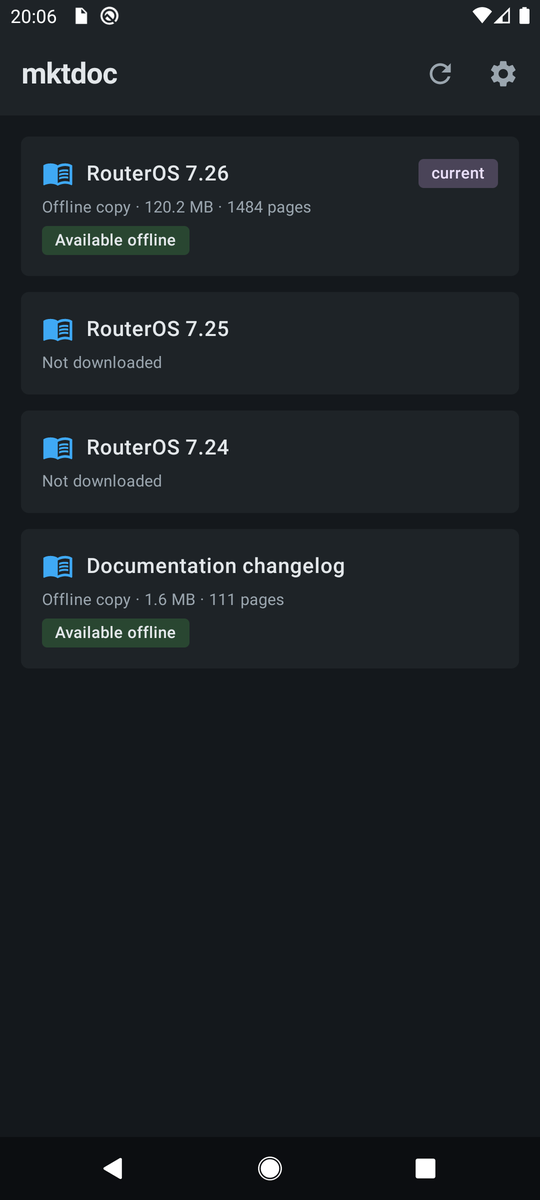
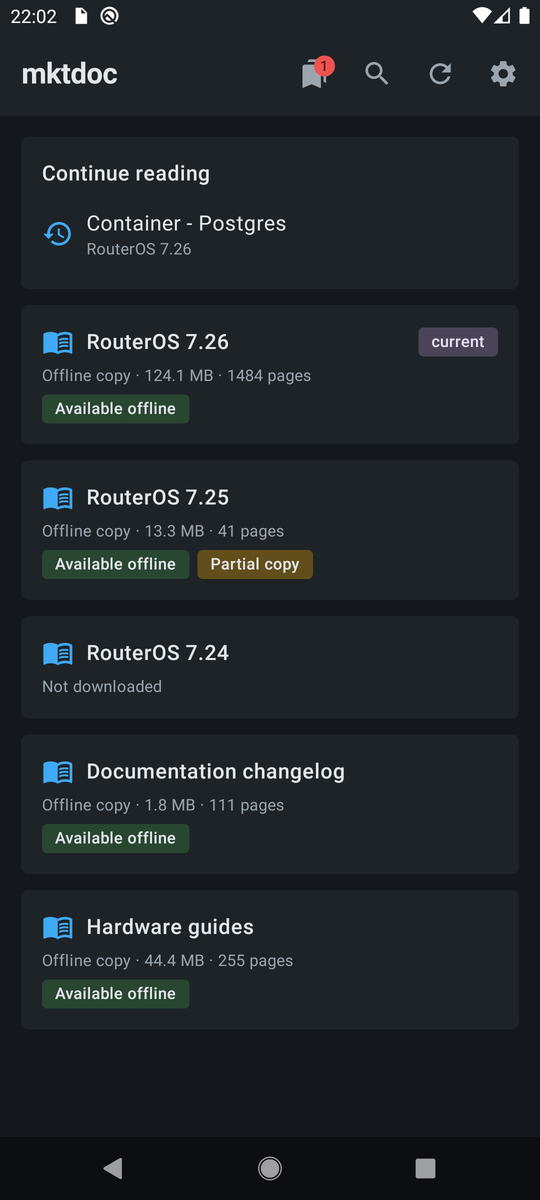
Update the README and screenshots for the current features; release 1.1.2

diff --git a/README.md b/README.md
@@ -21,6 +21,7 @@ online, and can export the documentation to a ZIP or a PDF.
   - [Discovery](#discovery-of-versions-and-structure) · [Download](#download-pipeline) · [Offline site](#offline-html-site)
   - [Checking for changes](#checking-for-changes-and-updating) · [Retired versions](#retired-versions)
   - [Changelog](#the-documentation-changelog) · [ZIP export](#zip-export) · [PDF export](#pdf-export)
+  - [Hardware guides](#the-hardware-guides) · [Background work](#background-work-and-alerts) · [App updates](#app-updates)
   - [Long operations](#long-operations-and-notifications) · [UI, state and theming](#ui-state-and-theming)
 - [Build and test](#build-and-test)
 - [Design notes and limitations](#design-notes-and-limitations)
@@ -94,9 +95,22 @@ progress dialog (it can be hidden or cancelled).
 
 ### Reading offline
 
-| Index and search | Page | Font size |
+| Index and search | Page | Options menu |
 |---|---|---|
-| <img src="docs/screenshots/reader_search.png" width="230"> | <img src="docs/screenshots/reader_page.png" width="230"> | <img src="docs/screenshots/reader_font.png" width="230"> |
+| <img src="docs/screenshots/reader_search.png" width="230"> | <img src="docs/screenshots/reader_page.png" width="230"> | <img src="docs/screenshots/reader_menu.png" width="230"> |
+
+| Opened from a search (words highlighted) | Find in page | Hardware category |
+|---|---|---|
+| <img src="docs/screenshots/reader_highlight.png" width="230"> | <img src="docs/screenshots/reader_find.png" width="230"> | <img src="docs/screenshots/hardware_category.png" width="230"> |
+
+The options menu has *Index*, *Open on the website*, *Share link* and the font size. A hardware category opens a
+page listing all its products, with a filter.
+
+### Search, bookmarks and comparing versions
+
+| Search | Bookmarks | Compare two versions |
+|---|---|---|
+| <img src="docs/screenshots/search_results.png" width="230"> | <img src="docs/screenshots/bookmarks_sheet.png" width="230"> | <img src="docs/screenshots/compare_versions.png" width="230"> |
 
 ### Checking for changes
 
@@ -130,9 +144,13 @@ Cover, contents with page numbers, and content pages with the section name and p
 
 ### Settings, themes and licenses
 
-| Settings | Appearance | Reading |
+| Settings | Appearance | Reading and bookmarks backup |
 |---|---|---|
 | <img src="docs/screenshots/settings.png" width="230"> | <img src="docs/screenshots/settings_appearance.png" width="230"> | <img src="docs/screenshots/settings_reading.png" width="230"> |
+
+| Alerts | About: updates and version history |
+|---|---|
+| <img src="docs/screenshots/settings_alerts.png" width="230"> | <img src="docs/screenshots/settings_about.png" width="230"> |
 
 | Licenses | GPL text |
 |---|---|
@@ -149,16 +167,17 @@ Dark, Dark blue and Light (with the Ocean palette):
 2. **Pick a version** and press **Download as HTML**. The app reads the manual structure, downloads every page
    with its images and builds the offline site. A foreground notification shows the progress.
 3. **Open documentation** to read it in the app. The **index** page has a search box (full text, all words must
-   match) and the whole table of contents. Inside a page you have breadcrumbs and previous/next links, and the
-   **Tt** button changes the font size.
+   match) and the whole table of contents. Inside a page you have breadcrumbs and previous/next links. The top bar
+   has a bookmark star, *find in page* and the global search; the ⋮ menu has the index, *Open on the website*,
+   *Share link* and the font size. The search icon on the home screen searches all your downloaded versions.
 4. **Check differences with the website** to compare your copy with what is online. Review the report, then
    *Apply changes* or *Discard*. If the version has disappeared from the website you are told, and the copy is
    kept.
 5. **Export copy to ZIP** to save the offline site as a file anywhere (the Android file picker is used).
 6. **Export to PDF**: choose the source (offline copy or website), the options and the sections, then pick where to save the file (or a
    folder when you want one file per section).
-7. **Settings** (gear icon) are grouped in *Appearance*, *Reading*, *Network and storage*, *Alerts*, *About* and
-   *Licenses*.
+7. **Settings** (gear icon) are grouped in *Appearance*, *Reading* (font size and bookmarks backup), *Network and
+   storage*, *Alerts*, *About* (updates from GitHub and version history) and *Licenses*.
 
 ## Architecture
 
@@ -185,7 +204,10 @@ flowchart LR
     HTTP -.-> WEB[("manual.mikrotik.com")]
     CRAWL --> STORE[("Store<br/>files on disk")]
     SITE --> STORE
-    WORK["work/VersionCheckWorker<br/>daily"] --> LIB
+    WORK["work/VersionCheckWorker (daily)<br/>work/ContentCheckWorker (weekly)"] --> LIB
+    UI --> UPD["data/Updates<br/>GitHub releases"]
+    UPD --> HTTP
+    UI --> SEARCH["data/Search<br/>search-index.js"]
 ```
 
 ### Packages
@@ -193,10 +215,10 @@ flowchart LR
 | Package | Responsibility |
 |---|---|
 | `net` | `Http`: single OkHttp client with a global requests-per-second limiter, retries (429/5xx and network errors with growing back-off) and manual redirect handling (the site redirects to `http://`, which is forced back to `https://`). |
-| `data` | `Discovery` (versions, sidebar menu, sitemap, changelog structure), `Crawler` (download, clean, cache), `Store` (files on disk), `SiteRenderer` (offline HTML site), `Library` (download / check / apply / ZIP / availability), `Model` (nodes, structure, versions), `Prefs`, `Licenses`. |
+| `data` | `Discovery` (versions, sidebar menu, sitemap, changelog structure), `Crawler` (download, clean, cache), `Store` (files on disk), `SiteRenderer` (offline HTML site), `Library` (download / check / apply / compare / ZIP / availability / outline), `Model` (nodes, structure, versions, collections), `Search` (native full-text search over the generated index), `Updates` (GitHub releases, verified download, installer intent), `Msg` (language of the progress messages), `Prefs` (settings, bookmarks, scroll positions), `Licenses`. |
 | `pdf` | `PdfOptions`, `ImageOptimizer`, `PdfPrinter` (prints HTML with the WebView), `PdfExporter` (assembles, prints, merges and decorates the PDF). |
-| `work` | `Jobs` (single long-running operation exposed as a `StateFlow` + the foreground `JobService`) and `VersionCheckWorker` (WorkManager, daily). |
-| `ui` | Compose screens (`Screens`, `PdfScreen`, `ReaderScreen`, `SettingsScreen`), shared components, `MainViewModel`, and `theme/` (color schemes, shapes). |
+| `work` | `Jobs` (single long-running operation exposed as a `StateFlow` + the foreground `JobService`) `VersionCheckWorker` (daily) and `ContentCheckWorker` (weekly) with WorkManager. |
+| `ui` | Compose screens (`Screens`, `DownloadScreen`, `PdfScreen`, `ReaderScreen` + `OutlinePanel`, `SettingsScreen`), shared components, `MainViewModel`, and `theme/` (color schemes, shapes). |
 | `android.print` | `PrintCallbacks.java`: tiny Java shim, see [PDF export](#pdf-export). |
 
 ### Data on disk
@@ -425,7 +447,7 @@ Requirements: the Android SDK with platform 37 and network access the first time
 wrapper is used; the Gradle daemon JVM is configured as JDK 25 (auto-provisioned) and the code targets Java 17.
 
 ```
-./gradlew assembleDebug            # app/build/outputs/apk/debug/mktdoc-v1.1.1-debug.apk
+./gradlew assembleDebug            # app/build/outputs/apk/debug/mktdoc-v1.1.2-debug.apk
 ./gradlew testDebugUnitTest        # unit tests
 ./gradlew lintDebug                # Android lint
 ./gradlew connectedDebugAndroidTest  # UI/integration tests on a device or emulator (it uninstalls the app afterwards,
